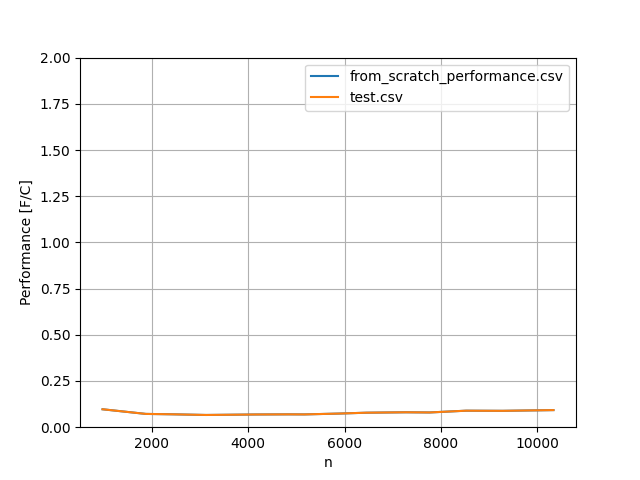
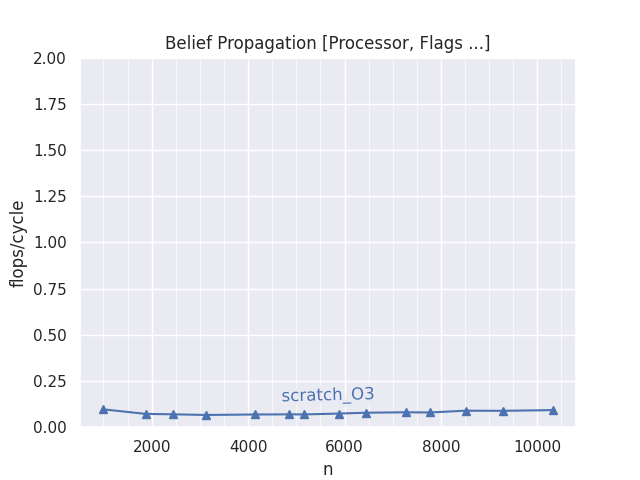
beautify plot

diff --git a/measurement_utils/plot_perf.py b/measurement_utils/plot_perf.py
@@ -4,8 +4,21 @@
 
 import os
 from re import X
+from pathlib import Path
 import pandas as pd
+from pytest import mark
+import seaborn as sns
+import matplotlib
 import matplotlib.pyplot as plt
+from labellines import labelLines
+import itertools
+
+def cycle_markers(iterable,n):
+  for item in itertools.cycle(iterable):
+    yield item
+
+sns.set_theme()
+markers = cycle_markers(('^','o','s'),1)
 
 PATH = './'
 
@@ -17,13 +30,21 @@ for file in fileNames:
     df = pd.read_csv(PATH + file, usecols= [0,1,2])
     x = df.iloc[:,0].to_numpy()
     y = df.iloc[:,2].to_numpy()/df.iloc[:,1].to_numpy()
-    plt.plot(x, y, label = f"{file}")
+    marker = next(markers)
+    plt.plot(x, y, label = f"{Path(file).stem}", marker=marker)
 
+plt.title("Belief Propagation [Processor, Flags ...]")
 plt.xlabel('n')
 plt.ylabel('Performance [F/C]')
-plt.grid()
-plt.legend()
+#plt.legend()
 plt.ylim(ymin=0,ymax=2)
+plt.ylabel('flops/cycle')
+#plt.grid()
+ax = plt.gca()
+ax.get_xaxis().set_minor_locator(matplotlib.ticker.AutoMinorLocator())
+ax.grid(b=True, which='major', color='w', linewidth=1.0)
+ax.grid(b=True, which='minor', color='w', linewidth=0.5)
+labelLines(ax.get_lines(), yoffsets=0.1)
 ### Generate the plot
 plt.savefig('./plots/performance_plot.png')  
 plt.show() 
